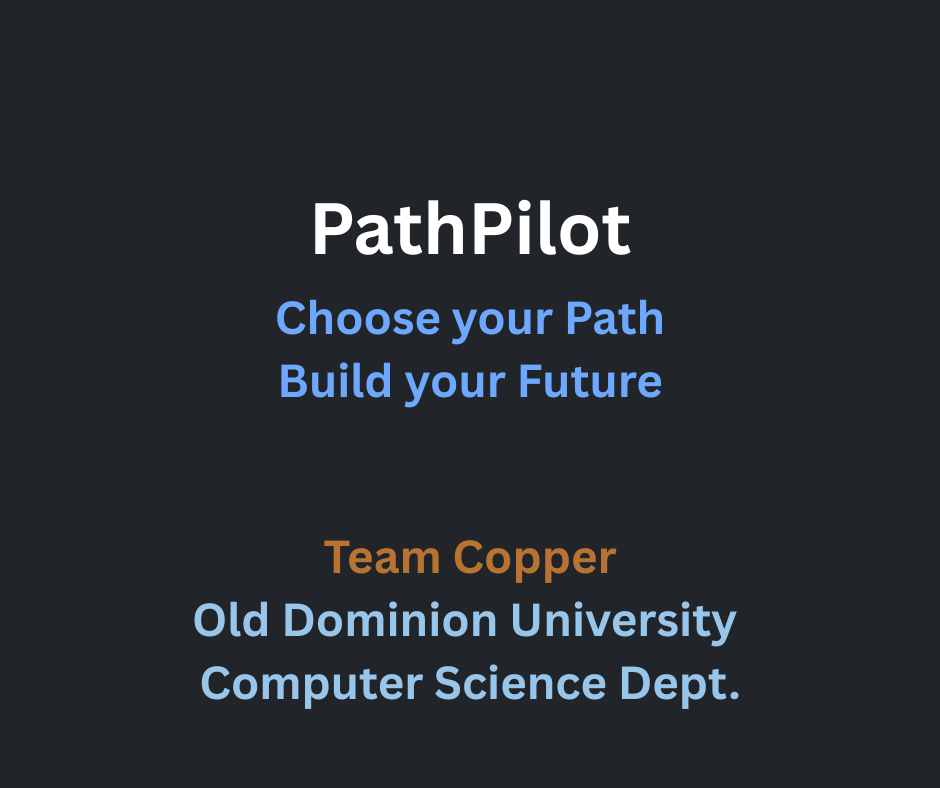
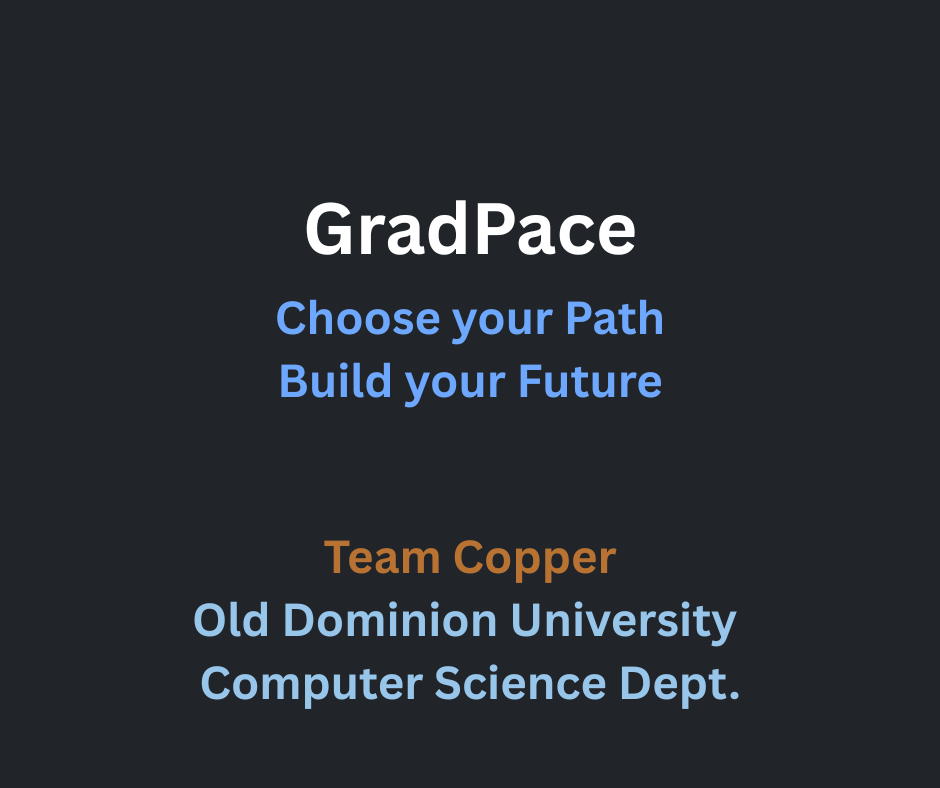
Change Name to GradPace

Changed region(s): [[0.3085, 0.2437, 0.6787, 0.335]]

diff --git a/website/templates/base.html b/website/templates/base.html
@@ -4,30 +4,30 @@
 <head>
     <meta charset="UTF-8">
     <meta name="viewport" content="width=device-width, initial-scale=1.0">
-    <title>{% block title %}Document{% endblock %} - PathPilot</title>
+    <title>{% block title %}Document{% endblock %} - GradPace</title>
 
     <!-- SEO Meta Tags -->
-    <meta name="description" content="{% block description %}PathPilot - Team Copper's project for ODU Computer Science{% endblock %}">
-    <meta name="keywords" content="{% block keywords %}PathPilot, ODU, Computer Science, Team Copper{% endblock %}">
+    <meta name="description" content="{% block description %}GradPace - Team Copper's project for ODU Computer Science{% endblock %}">
+    <meta name="keywords" content="{% block keywords %}GradPace, ODU, Computer Science, Team Copper{% endblock %}">
     <meta name="author" content="Team Copper - ODU">
     <meta name="robots" content="index, follow">
 
     <!-- Open Graph / Facebook -->
     <meta property="og:type" content="website">
-    <meta property="og:url" content="{% block og_url %}https://pathpilot.steyaert.xyz{{ request.path }}{% endblock %}">
-    <meta property="og:title" content="{% block og_title %}PathPilot{% endblock %}">
-    <meta property="og:description" content="{% block og_description %}PathPilot - Team Copper's project for ODU Computer Science{% endblock %}">
-    <meta property="og:image" content="{% block og_image %}https://pathpilot.steyaert.xyz{{ url_for('static', filename='images/og-image.png') }}{% endblock %}">
+    <meta property="og:url" content="{% block og_url %}https://gradpace.steyaert.xyz{{ request.path }}{% endblock %}">
+    <meta property="og:title" content="{% block og_title %}GradPace{% endblock %}">
+    <meta property="og:description" content="{% block og_description %}GradPace - Team Copper's project for ODU Computer Science{% endblock %}">
+    <meta property="og:image" content="{% block og_image %}https://gradpace.steyaert.xyz{{ url_for('static', filename='images/og-image.png') }}{% endblock %}">
 
     <!-- Twitter -->
     <meta name="twitter:card" content="summary_large_image">
-    <meta property="twitter:url" content="{% block twitter_url %}https://pathpilot.steyaert.xyz{{ request.path }}{% endblock %}">
-    <meta property="twitter:title" content="{% block twitter_title %}PathPilot{% endblock %}">
-    <meta property="twitter:description" content="{% block twitter_description %}PathPilot - Team Copper's project for ODU Computer Science{% endblock %}">
-    <meta property="twitter:image" content="{% block twitter_image %}https://pathpilot.steyaert.xyz{{ url_for('static', filename='images/og-image.png') }}{% endblock %}">
+    <meta property="twitter:url" content="{% block twitter_url %}https://gradpace.steyaert.xyz{{ request.path }}{% endblock %}">
+    <meta property="twitter:title" content="{% block twitter_title %}GradPace{% endblock %}">
+    <meta property="twitter:description" content="{% block twitter_description %}GradPace - Team Copper's project for ODU Computer Science{% endblock %}">
+    <meta property="twitter:image" content="{% block twitter_image %}https://gradpace.steyaert.xyz{{ url_for('static', filename='images/og-image.png') }}{% endblock %}">
 
     <!-- Canonical URL -->
-    <link rel="canonical" href="{% block canonical_url %}https://pathpilot.steyaert.xyz{{ request.path }}{% endblock %}">
+    <link rel="canonical" href="{% block canonical_url %}https://gradpace.steyaert.xyz{{ request.path }}{% endblock %}">
 
     <link href="https://cdn.jsdelivr.net/npm/bootstrap@5.3.8/dist/css/bootstrap.min.css" rel="stylesheet" integrity="sha384-sRIl4kxILFvY47J16cr9ZwB07vP4J8+LH7qKQnuqkuIAvNWLzeN8tE5YBujZqJLB" crossorigin="anonymous">
     <link href="{{ url_for('static', filename='css/base.css') }}" rel="stylesheet">

diff --git a/website/templates/wip-feasibility-slides.html b/website/templates/wip-feasibility-slides.html
@@ -2,8 +2,8 @@
 {% from 'components/presentation-iframe.html' import presentation_iframe %}
 {% set active_page = 'wipFeas' %}
 {% block title %}Work-In-Progress Feasibility Presentation{% endblock %}
-{% block description %}PathPilot Work-In-Progress Feasibility Study - Team Copper's ongoing feasibility analysis for Old Dominion University Computer Science project.{% endblock %}
-{% block keywords %}PathPilot WIP, feasibility study, work in progress, ODU project, Team Copper presentation{% endblock %}
+{% block description %}GradPace Work-In-Progress Feasibility Study - Team Copper's ongoing feasibility analysis for Old Dominion University Computer Science project.{% endblock %}
+{% block keywords %}GradPace WIP, feasibility study, work in progress, ODU project, Team Copper presentation{% endblock %}
 
 {% block css %}
 <link href="{{ url_for('static', filename='css/feasibility.css') }}" rel="stylesheet">

diff --git a/website/templates/home.html b/website/templates/home.html
@@ -5,9 +5,9 @@
 {% set active_page = 'home' %}
 
 {% block title %}Home{% endblock %}
-{% block description %}PathPilot - Choose your Path, Build your Future. An innovative Computer Science project by Team Copper from Old Dominion University.{% endblock %}
-{% block keywords %}PathPilot, Team Copper, ODU Computer Science, Old Dominion University, student project, software engineering, career planning{% endblock %}
+{% block description %}GradPace - Choose your Path, Build your Future. An innovative Computer Science project by Team Copper from Old Dominion University.{% endblock %}
+{% block keywords %}GradPace, Team Copper, ODU Computer Science, Old Dominion University, student project, software engineering, career planning{% endblock %}
 
 {% block content %}
-<p class="h1">PathPilot - Team Copper</p>
+<p class="h1">GradPace - Team Copper</p>
 {% endblock %}

diff --git a/website/templates/bios.html b/website/templates/bios.html
@@ -4,8 +4,8 @@
 {% set active_page = 'bios' %}
 
 {% block title %}Our Team{% endblock %}
-{% block description %}Meet Team Copper - talented Computer Science students at Old Dominion University working on PathPilot. Learn about our team members and their roles.{% endblock %}
-{% block keywords %}Team Copper, ODU Computer Science, PathPilot team, student developers, software engineering team{% endblock %}
+{% block description %}Meet Team Copper - talented Computer Science students at Old Dominion University working on GradPace. Learn about our team members and their roles.{% endblock %}
+{% block keywords %}Team Copper, ODU Computer Science, GradPace team, student developers, software engineering team{% endblock %}
 
 {% block content %}
 <h1 class="text-center mb-5">Meet Our Team!</h1>

diff --git a/website/templates/feasibility-slides-version-1.html b/website/templates/feasibility-slides-version-1.html
@@ -4,8 +4,8 @@
 {% set active_page = 'feasV1' %}
 
 {% block title %}Feasibility Presentation Version 1{% endblock %}
-{% block description %}PathPilot Feasibility Study Version 1 - Team Copper's project feasibility analysis for Old Dominion University Computer Science.{% endblock %}
-{% block keywords %}PathPilot feasibility, project presentation, ODU CS project, Team Copper presentation{% endblock %}
+{% block description %}GradPace Feasibility Study Version 1 - Team Copper's project feasibility analysis for Old Dominion University Computer Science.{% endblock %}
+{% block keywords %}GradPace feasibility, project presentation, ODU CS project, Team Copper presentation{% endblock %}
 
 {% block css %}
 <link href="{{ url_for('static', filename='css/feasibility.css') }}" rel="stylesheet">

diff --git a/website/templates/components/navbar.html b/website/templates/components/navbar.html
@@ -1,6 +1,6 @@
 <nav class="navbar navbar-expand-lg bg-body-tertiary">
   <div class="container-fluid">
-    <a class="navbar-brand" href="{{url_for('blueprint.home')}}">PathPilot</a>
+    <a class="navbar-brand" href="{{url_for('blueprint.home')}}">GradPace</a>
     <button class="navbar-toggler" type="button" data-bs-toggle="collapse" data-bs-target="#navbarNav" aria-controls="navbarNav" aria-expanded="false" aria-label="Toggle navigation">
       <span class="navbar-toggler-icon"></span>
     </button>

diff --git a/website/templates/components/footer.html b/website/templates/components/footer.html
@@ -2,7 +2,7 @@
   <div class="container">
     <div class="row">
       <div class="col-md-12 text-center">
-        <p class="text-muted mb-0">&copy; 2026 PathPilot - Team Copper</p>
+        <p class="text-muted mb-0">&copy; 2026 GradPace - Team Copper</p>
       </div>
     </div>
   </div>
